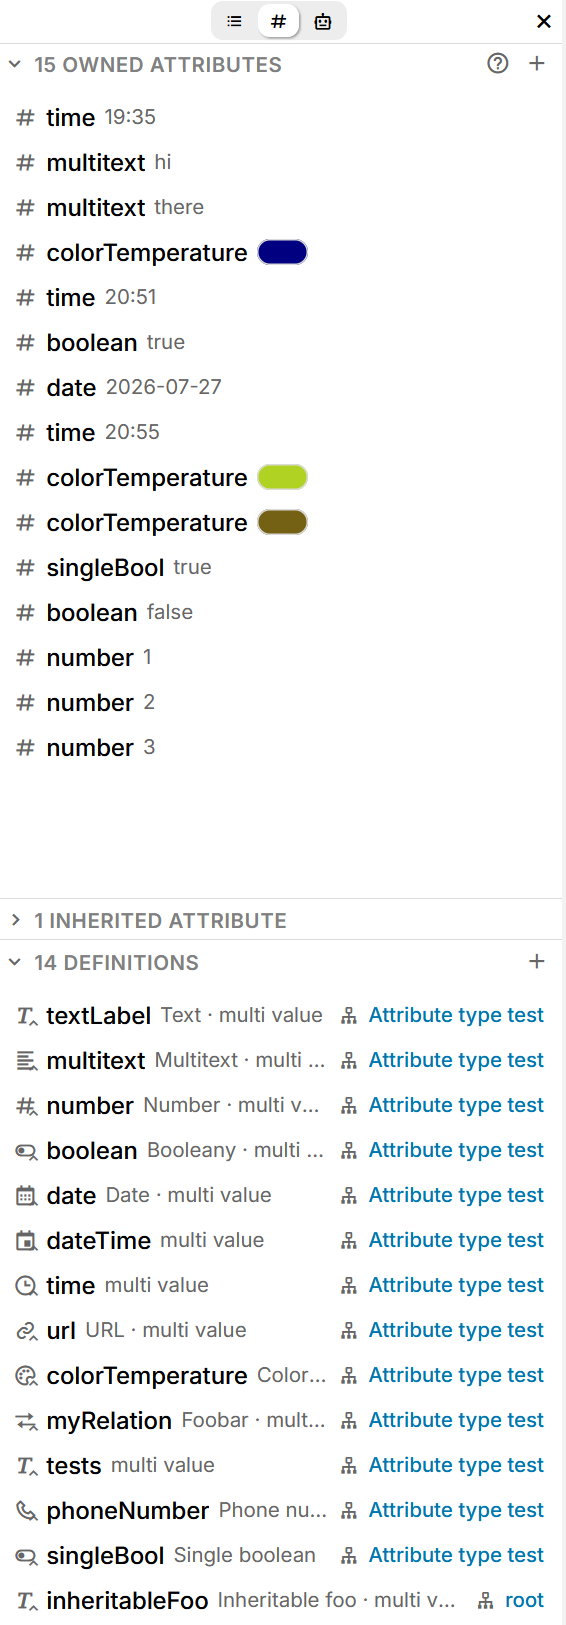
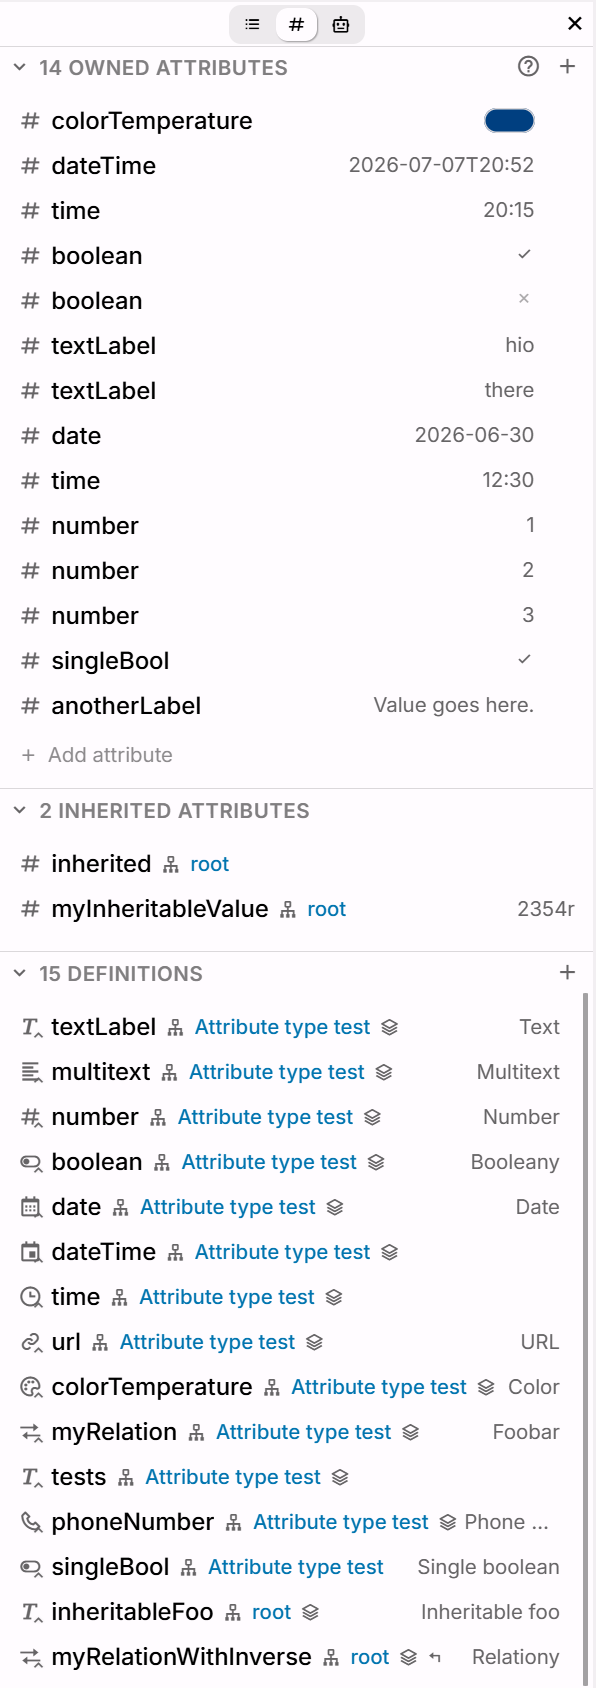
docs(user): mild tweak to attributes + screenshot update

diff --git a/apps/server/src/assets/doc_notes/en/User Guide/User Guide/Basic Concepts and Features/UI Elements/Right Sidebar/Attributes tab.html b/apps/server/src/assets/doc_notes/en/User Guide/User Guide/Basic Concepts and Features/UI Elements/Right Sidebar/Attributes tab.html
@@ -1,6 +1,6 @@
-<figure class="image image-style-align-right image_resized" style="width:45.4%;">
-  <img style="aspect-ratio:566/1625;" src="Attributes tab_image.png"
-  width="566" height="1625">
+<figure class="image image-style-align-right image_resized" style="width:34.71%;">
+  <img style="aspect-ratio:596/1688;" src="Attributes tab_image.png"
+  width="596" height="1688">
 </figure>
 <p>The attributes tab provides a more graphical way to view and edit <a href="#root/pOsGYCXsbNQG/tC7s2alapj8V/_help_zEY4DaJG4YT5">attributes</a>.</p>
 <h2>Sections</h2>
@@ -40,11 +40,15 @@
       <li>The input box follows the type defined in a corresponding label definition
         (date, color, dropdown, numbers), as well as for system attributes that
         have a specific type (e.g. <code spellcheck="false">color</code>).</li>
-      <li>For labels, clicking on the value edits its in-place. Press <kbd spellcheck="false">Enter</kbd> to
-        confirm or click outside the input box, or <kbd spellcheck="false">Esc</kbd> to
-        dismiss.</li>
-      <li>For multi-line text, <kbd spellcheck="false">Ctrl</kbd>+<kbd spellcheck="false">Enter</kbd> confirms
-        whereas <kbd spellcheck="false">Enter</kbd> creates a newline.</li>
+      <li>For labels, clicking on the value edits its in-place.
+        <ul>
+          <li>Press <kbd spellcheck="false">Enter</kbd> to confirm or click outside the
+            input box, or <kbd spellcheck="false">Esc</kbd> to dismiss.</li>
+          <li>For multi-line text, <kbd spellcheck="false">Ctrl</kbd>+<kbd spellcheck="false">Enter</kbd> confirms
+            whereas <kbd spellcheck="false">Enter</kbd> creates a newline.</li>
+        </ul>
+      </li>
+      <li>For boolean values, clicking on the checkbox will toggle its state.</li>
       <li>For labels without a value, a value can be added by clicking on the <em>No value</em> text
         which appears while the mouse is hovered on the item.</li>
       <li>For relations, there is a dedicated pencil button instead.</li>

diff --git a/docs/User Guide/User Guide/Basic Concepts and Features/UI Elements/Right Sidebar/Attributes tab.md b/docs/User Guide/User Guide/Basic Concepts and Features/UI Elements/Right Sidebar/Attributes tab.md
@@ -1,5 +1,5 @@
 # Attributes tab
-<figure class="image image-style-align-right image_resized" style="width:45.4%;"><img style="aspect-ratio:566/1625;" src="Attributes tab_image.png" width="566" height="1625"></figure>
+<figure class="image image-style-align-right image_resized" style="width:34.71%;"><img style="aspect-ratio:596/1688;" src="Attributes tab_image.png" width="596" height="1688"></figure>
 
 The attributes tab provides a more graphical way to view and edit [attributes](../../../Advanced%20Usage/Attributes.md).
 
@@ -27,8 +27,10 @@ Interaction:
 *   Clicking on the item (apart from the value and links) reveals a dedicated popup where the name, value and <a class="reference-link" href="../../../Advanced%20Usage/Attributes/Attribute%20Inheritance.md">Attribute Inheritance</a> can be defined.
 *   The value of the attributes can be edited in-place:
     *   The input box follows the type defined in a corresponding label definition (date, color, dropdown, numbers), as well as for system attributes that have a specific type (e.g. `color`).
-    *   For labels, clicking on the value edits its in-place. Press <kbd spellcheck="false">Enter</kbd> to confirm or click outside the input box, or <kbd spellcheck="false">Esc</kbd> to dismiss.
-    *   For multi-line text, <kbd spellcheck="false">Ctrl</kbd>+<kbd spellcheck="false">Enter</kbd> confirms whereas <kbd spellcheck="false">Enter</kbd> creates a newline.
+    *   For labels, clicking on the value edits its in-place.
+        *   Press <kbd spellcheck="false">Enter</kbd> to confirm or click outside the input box, or <kbd spellcheck="false">Esc</kbd> to dismiss.
+        *   For multi-line text, <kbd spellcheck="false">Ctrl</kbd>+<kbd spellcheck="false">Enter</kbd> confirms whereas <kbd spellcheck="false">Enter</kbd> creates a newline.
+    *   For boolean values, clicking on the checkbox will toggle its state.
     *   For labels without a value, a value can be added by clicking on the _No value_ text which appears while the mouse is hovered on the item.
     *   For relations, there is a dedicated pencil button instead.
 *   An attribute can be deleted by pressing the X button to its right, which only appears while hovered. A confirmation screen is displayed first to ensure the attribute is not accidentally deleted.
